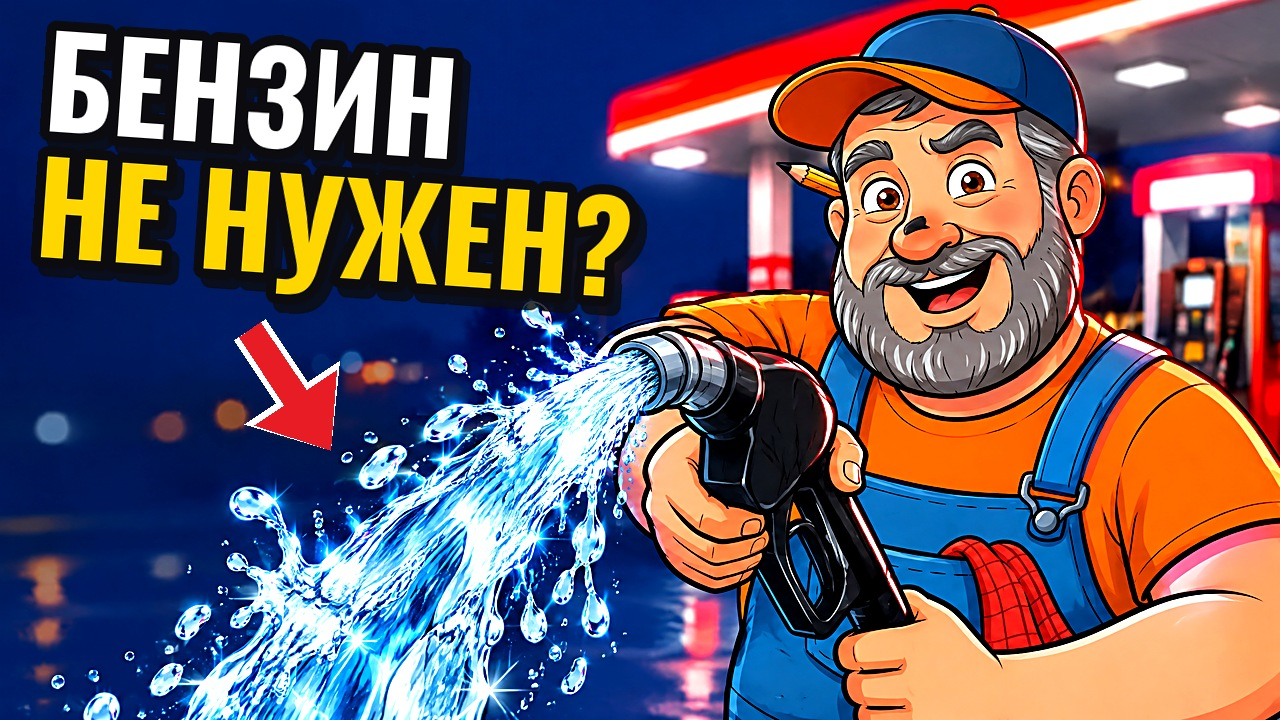
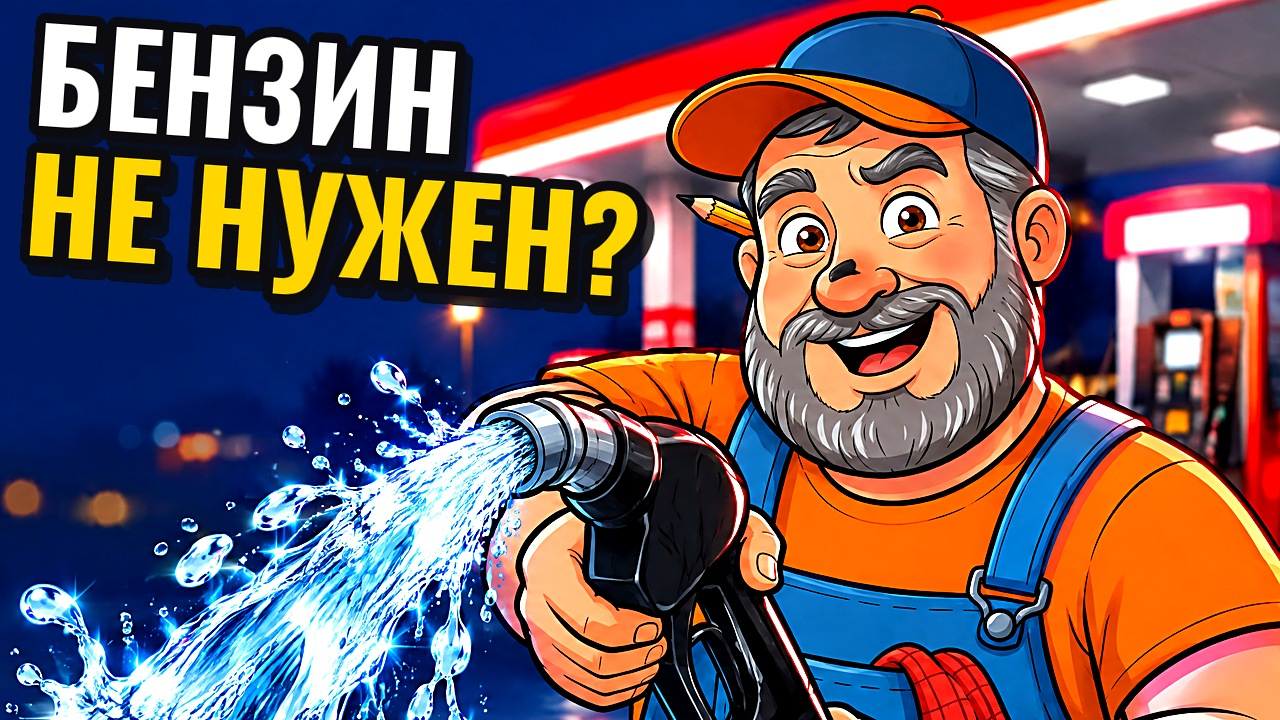
Михалыч «на воде»: обложки без пустого фона — наезд 1,2–1,35×, текст на остатке фона
Claude-Session: https://claude.ai/code/session_01SUp6ffoGvWzhFKjwtGui4S

diff --git a/gastronom/content-machine/mech/episodes/water/thumb/make_thumbs_v3.py b/gastronom/content-machine/mech/episodes/water/thumb/make_thumbs_v3.py
@@ -18,15 +18,19 @@ W, H = 1280, 720
 WHITE, YELLOW, BLACK, RED = (255, 255, 255), (255, 214, 0), (12, 12, 16), (232, 28, 36)
 
 
-def base(name):
-    im = Image.open(os.path.join(D, 'base', name + '.png')).convert('RGB').crop((0, 4, 2688, 1516)).resize((W, H), Image.LANCZOS)
+def base(name, x0=0, y0=0, z=1.0):
+    """База → 1280×720 с наездом: окно 1280/z × 720/z с левым верхним углом (x0, y0) в координатах базы 1280×720.
+    Наезд убирает пустой фон («Много свободного места»): персонаж и предмет заполняют кадр."""
+    im = Image.open(os.path.join(D, 'base', name + '.png')).convert('RGB').crop((0, 4, 2688, 1516))
+    k = im.width / W
+    im = im.crop((int(x0 * k), int(y0 * k), int((x0 + W / z) * k), int((y0 + H / z) * k))).resize((W, H), Image.LANCZOS)
     im = ImageEnhance.Color(im).enhance(1.22); im = ImageEnhance.Contrast(im).enhance(1.12)
     im = im.filter(ImageFilter.UnsharpMask(radius=2, percent=60, threshold=2))
-    # виньетка: края темнее на ~30 %
+    # лёгкая виньетка: края темнее на ~20 %
     m = Image.new('L', (W, H), 0); d = ImageDraw.Draw(m)
     d.ellipse([-W * 0.25, -H * 0.35, W * 1.25, H * 1.35], fill=255)
     m = m.filter(ImageFilter.GaussianBlur(160))
-    dark = ImageEnhance.Brightness(im).enhance(0.62)
+    dark = ImageEnhance.Brightness(im).enhance(0.8)
     return Image.composite(im, dark, m)
 
 
@@ -78,21 +82,21 @@ def put(im, layer, x, y):
 
 
 def build(key):
+    # координаты кружков — уже в кадре после наезда
     if key == 'pump':
-        im = base('th_pump')
-        im = arrow(im, 250, 330, 330, 450)
-        tb = text_block([('БЕНЗИН', WHITE), ('НЕ НУЖЕН?', YELLOW)], 600)
-        return put(im, tb, 28, 18)
+        im = base('th_pump', 213, 0, 1.2)
+        tb = text_block([('БЕНЗИН', WHITE), ('НЕ НУЖЕН?', YELLOW)], 620)
+        return put(im, tb, 16, 10)
     if key == 'boom':
-        im = base('th_boom')
-        im = ring(im, 535, 240, 135, 118)
-        tb = text_block([('МОТОР', WHITE), ('НА ВОДЕ?!', YELLOW)], 560)
-        return put(im, tb, 28, H - tb.height - 14)
+        im = base('th_boom', 200, 0, 1.25)
+        im = ring(im, 419, 287, 169, 148)
+        tb = text_block([('МОТОР', WHITE), ('НА ВОДЕ?!', YELLOW)], 490)
+        return put(im, tb, 14, H - tb.height - 8)
     if key == 'secret':
-        im = base('th_secret')
-        im = ring(im, 470, 395, 122, 150)
-        tb = text_block([('ЭТО', WHITE), ('СКРЫВАЮТ?', YELLOW)], 600)
-        return put(im, tb, 22, 14)
+        im = base('th_secret', 332, 0, 1.35)
+        im = ring(im, 180, 540, 152, 172)
+        tb = text_block([('ЭТО', WHITE), ('СКРЫВАЮТ?', YELLOW)], 560)
+        return put(im, tb, 12, 6)
     raise KeyError(key)
 
 
